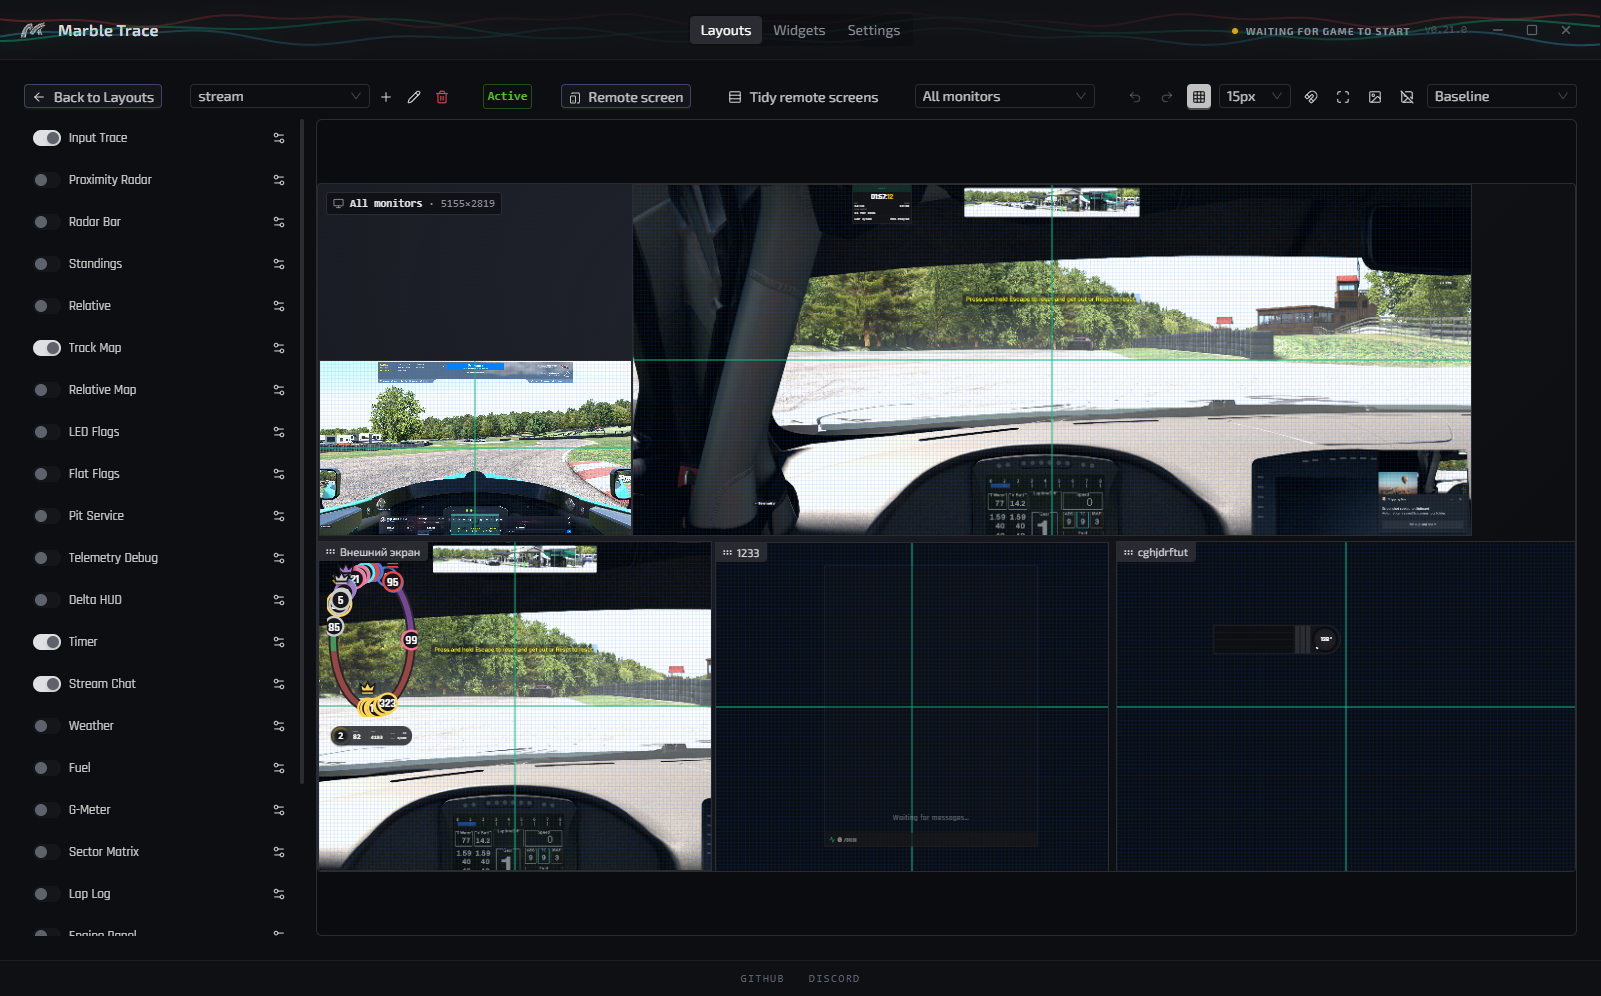
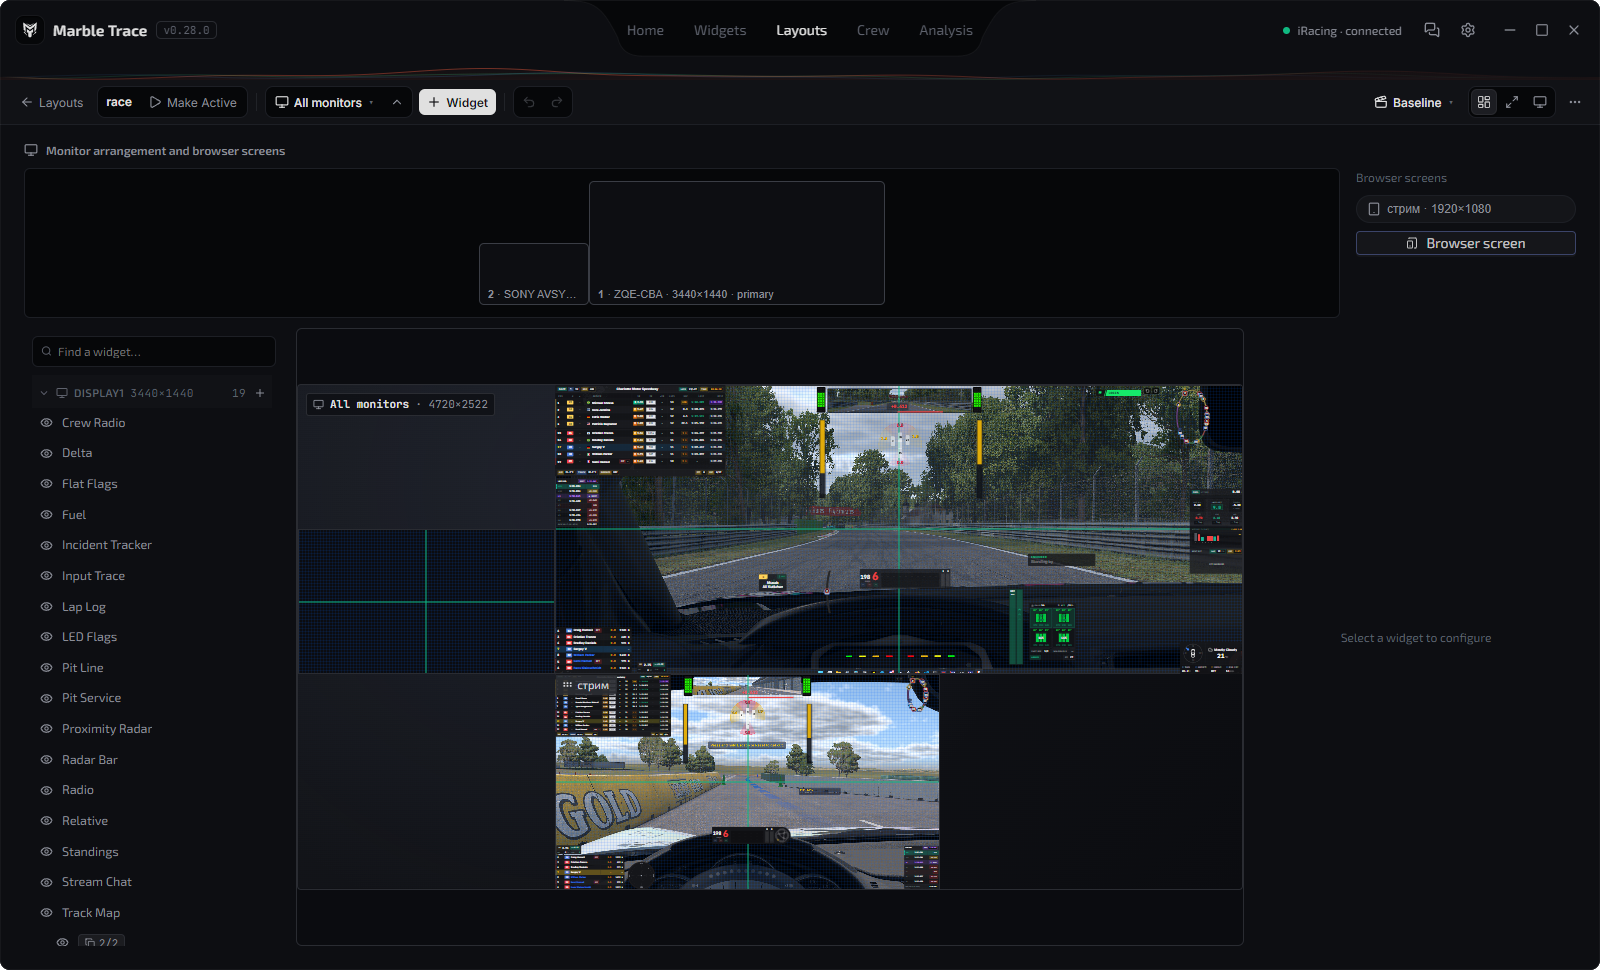
docs: main window screenshots and README sections for Home, Analysis and Widgets
The site's widget settings, hotkeys, devices and crew shots and the README's
layout editor and browser screens shots are retaken from the redesigned main
window; the site's crops follow the new captures, and remote screens are
called browser screens, as in the app.

diff --git a/site/index.html b/site/index.html
@@ -2358,7 +2358,7 @@
          the point - rather than the whole settings page with its margins.
 
          A crop is .shot-crop with the capture's own pixel box in --x/--y/
-         --w/--h (all captures are 1595x969); data-zoom opens the whole
+         --w/--h (all captures are 1600x970); data-zoom opens the whole
          capture in the viewer at the end of the page (shot-viewer.js).
          ==================================================================== -->
 
@@ -2489,7 +2489,7 @@
 
         <ul class="container pill-list">
           <li class="pill">Every monitor on one canvas</li>
-          <li class="pill">Remote screens too</li>
+          <li class="pill">Browser screens too</li>
           <li class="pill">Live data while you place</li>
           <li class="pill">Snap grid</li>
           <li class="pill">Undo and redo</li>
@@ -2512,7 +2512,7 @@
             </h2>
 
             <p class="feature-desc">
-              Each widget opens with a live preview beside its settings. Switch
+              Each widget opens with a live preview beside its settings, on a scenario you pick. Switch
               a column off and it is gone from the picture before you are back
               in the car.
             </p>
@@ -2533,15 +2533,15 @@
             <button
               class="shot-crop shot-workbench"
               type="button"
-              style="--x: 330; --y: 250; --w: 1240; --h: 530"
+              style="--x: 260; --y: 145; --w: 1312; --h: 600"
               data-zoom
               aria-label="Open the widget settings screenshot"
             >
               <img
                 src="assets/control/widget-config.png"
                 alt="Standings open in the widget settings: a live preview of the table beside its column switches"
-                width="1595"
-                height="969"
+                width="1600"
+                height="970"
                 loading="lazy"
                 decoding="async"
               />
@@ -2586,15 +2586,15 @@
             <button
               class="shot-crop shot-devices"
               type="button"
-              style="--x: 488; --y: 255; --w: 868; --h: 460"
+              style="--x: 1092; --y: 143; --w: 480; --h: 452"
               data-zoom
               aria-label="Open the devices screenshot"
             >
               <img
                 src="assets/control/devices.png"
                 alt="The devices page, listing connected wheels, button boxes, joysticks and pedals"
-                width="1595"
-                height="969"
+                width="1600"
+                height="970"
                 loading="lazy"
                 decoding="async"
               />
@@ -2603,15 +2603,15 @@
             <button
               class="shot-crop shot-bindings"
               type="button"
-              style="--x: 508; --y: 378; --w: 828; --h: 182"
+              style="--x: 261; --y: 255; --w: 800; --h: 205"
               data-zoom
               aria-label="Open the input bindings screenshot"
             >
               <img
                 src="assets/control/bindings.png"
-                alt="Input bindings: drag mode on F9, interact mode on F8, hide all widgets on F10"
-                width="1595"
-                height="969"
+                alt="Input bindings: drag mode on F9, interact mode on F8, hide all widgets on F10, push to talk on a wheel button"
+                width="1600"
+                height="970"
                 loading="lazy"
                 decoding="async"
               />
@@ -2816,12 +2816,12 @@
               class="shot-crop shot-crew"
               type="button"
               style="
-                --cap-w: 1523;
-                --cap-h: 1109;
+                --cap-w: 1600;
+                --cap-h: 970;
                 --x: 250;
-                --y: 120;
-                --w: 1262;
-                --h: 930;
+                --y: 90;
+                --w: 1330;
+                --h: 860;
               "
               data-zoom
               aria-label="Open the crew commands screenshot"
@@ -2829,8 +2829,8 @@
               <img
                 src="assets/crew/commands.png"
                 alt="The Crew tab: the Fuel command's sentences as blocks, the engineer's replies, and a tried sentence matched to the command"
-                width="1523"
-                height="1109"
+                width="1600"
+                height="970"
                 loading="lazy"
                 decoding="async"
               />
@@ -3016,7 +3016,7 @@
                   </svg>
                 </span>
                 <span class="perf-node-name">Overlay</span>
-                <span class="perf-node-sub">And remote screens</span>
+                <span class="perf-node-sub">And browser screens</span>
               </li>
             </ol>
 

diff --git a/site/src/styles/main.css b/site/src/styles/main.css
@@ -2080,13 +2080,13 @@ button:focus-visible {
 
 /* ---- Crops of the real window ------------------------------------------------
 
-   A crop is a window onto one box of a 1595x969 capture: the frame takes the
+   A crop is a window onto one box of a 1600x970 capture: the frame takes the
    box's aspect ratio, and the image is scaled and shifted so exactly that box
    fills it. Clicking one opens the whole capture. */
 
 .shot-crop {
-  --cap-w: 1595;
-  --cap-h: 969;
+  --cap-w: 1600;
+  --cap-h: 970;
 
   position: relative;
   display: block;
@@ -2129,8 +2129,9 @@ button:focus-visible {
   padding-bottom: 3rem;
 }
 
+/* The Devices card is a narrow column of the capture: kept near its own size */
 .shot-devices {
-  width: 88%;
+  width: 60%;
   margin-left: auto;
 }
 

diff --git a/README.md b/README.md
@@ -43,6 +43,30 @@ Most iRacing overlays are either bloated desktop apps or locked behind subscript
 
 ---
 
+## Main Window
+
+The main window is where everything is set up, with **Home**, **Widgets**, **Layouts**, **Crew** and **Analysis** across its header and Settings beside them.
+
+### Home — Your Statistics
+
+Marble Trace reads the sim's telemetry files (`.ibt`) into a statistics database of its own, while the sim is closed. Home shows what is on right now, your last race with its finish, incidents and best lap, this week's time in the car, distance, clean laps and podium rate against the week before, a year of the days you drove, the cars and tracks you drove longest, and every session — filtered by period, track, car, session type and bots.
+
+![Home](docs/assets/screenshots/main/home.png)
+
+### Analysis — Compare Laps
+
+Open a session, pick its laps and lay them over each other: delta to the reference lap, speed, throttle, brake, gear, steering, RPM and any other channel the sim records, with one cursor across every chart and the track map. Zoom by wheel or drag, on the map and the charts alike; the Setup tab shows the garage setup each lap was driven with. Laps are kept in the database, so the analysis still works after the `.ibt` is gone.
+
+![Analysis](docs/assets/screenshots/main/analysis.png)
+
+### Widgets
+
+Every widget opens on a grid of live miniatures. A widget's page shows its preview — fitted or at its real size, on a scenario you pick — beside settings grouped the same way for every widget.
+
+![Widgets](docs/assets/screenshots/main/widgets.png)
+
+---
+
 ## Widgets
 
 Every widget is independently positioned, resized, and styled — drag it anywhere on screen, scale it to taste, adjust opacity so it never blocks your view. Each one ships with its own set of options: toggle individual data fields, switch layouts, pick colours, set visibility rules. You only see what you actually need, exactly where you want it.
@@ -338,31 +362,31 @@ Viewers can ask the sim themselves: `!pos`, `!gap`, `!lap`, `!best`, `!sof`, `!c
 
 ### Layout Editor
 
-Every layout is arranged in a visual editor that mirrors your actual desktop: each monitor is drawn to scale in its Windows position and has its own widget list — switch a widget on for the screen you want it on, run a second instance of it on another screen with its own settings, or move one over with every setting it has. Zoom out for the whole desktop when you are moving things around, or into a single screen for detail work. Each monitor can carry its own background image so you can place widgets against a screenshot of the cockpit instead of an empty rectangle, and everything follows along if you rearrange your displays in Windows.
+Every layout is arranged in a visual editor that mirrors your actual desktop: a monitor map shows your monitors as they stand on the desk, with their model and resolution, and **Identify** puts each one's number on the screen itself. Each monitor has its own widget list — add a widget to the screen you want it on, run a second instance of it on another screen with its own settings, or move one over with every setting it has. Edit all monitors at once, one monitor full size in the window, or right on the monitor itself. Each monitor can carry its own background image so you can place widgets against a screenshot of the cockpit instead of an empty rectangle, and everything follows along if you rearrange your displays in Windows.
 
 ![Layout Editor](docs/assets/screenshots/overlay/layout-editor.png)
 
-Layouts are independent of each other — build one for endurance, one for qualifying, one for ovals. Each remembers which screens it uses and which widgets sit on them. Switch between them from the toolbar, by a key or wheel button, or let the app switch automatically by session type.
+Layouts are independent of each other — build one for endurance, one for qualifying, one for ovals. Each remembers which screens it uses and which widgets sit on them, and can be exported to a file and imported on another PC. Switch between them by a key or wheel button, or let the app switch automatically: each layout says when it is shown — a session, a car class or a single car — and the most specific rule wins.
 
-### Remote Screens
+### Browser Screens
 
 A layout can also contain screens with **no monitor behind them**. Marble Trace serves those screens over your local network, so a phone, a tablet or a second PC opens one in its browser and shows live widgets — the same widgets, settings and telemetry as the overlay, with nothing to install on the device.
 
-- **Scan and go** — every remote screen has a QR code in Settings. Point the device's camera at it instead of typing an IP by hand, then add it to the home screen to run it full-screen.
+- **Scan and go** — every browser screen has a QR code in Settings. Point the device's camera at it instead of typing an IP by hand, then add it to the home screen to run it full-screen.
 - **Fit to the device** — the device reports the viewport it actually has, and one click resizes the screen to match, carrying its widgets with it.
 - **Token protected** — the link carries an access token, hidden until you ask for it (so a window capture on stream never puts it on air), copyable while covered, and regenerable at any time. Serving to the network is a separate switch; with it off nothing leaves this machine.
 - **Read-only by protocol** — a connected device paints what it is sent and cannot write anything back into your settings.
 - **Tunable** — the port and the telemetry push rate (5–60 Hz) are configurable, so a phone on weak Wi-Fi can be given less to chew on.
 
-![Remote Screens](docs/assets/screenshots/overlay/remote-screens.png)
+![Browser Screens](docs/assets/screenshots/overlay/remote-screens.png)
 
-Remote screens appear on the layout canvas next to your monitors, can be dragged anywhere on it, and a **Tidy remote screens** button lays them out in rows under the desktop.
+Browser screens appear on the layout canvas next to your monitors, can be dragged anywhere on it, and a **Tidy browser screens** button lays them out in rows under the desktop.
 
 ---
 
 ## Input Devices
 
-Every action can be bound to a keyboard key **or** to a button on your wheel, button box, joystick or handbrake — read straight from the device, so bindings still fire while iRacing has focus. All of them live in one **Input bindings** screen in Settings, grouped by widget, with search and a warning next to any button used twice; one action can carry several bindings at once.
+Every action can be bound to a keyboard key **or** to a button on your wheel, button box, joystick or handbrake — read straight from the device, so bindings still fire while iRacing has focus. All of them live in one **Hotkeys** screen in Settings, grouped by widget, with search and a warning next to any button used twice; one action can carry several bindings at once.
 
 Bindings are app-wide, not per layout. Devices are matched by their DirectInput instance GUID, so replugging or moving to another USB port keeps your bindings; a driver reinstall that regenerates the GUID is re-matched by vendor and product. A device that is currently unplugged keeps its bindings too, shown greyed out until it comes back.
 
